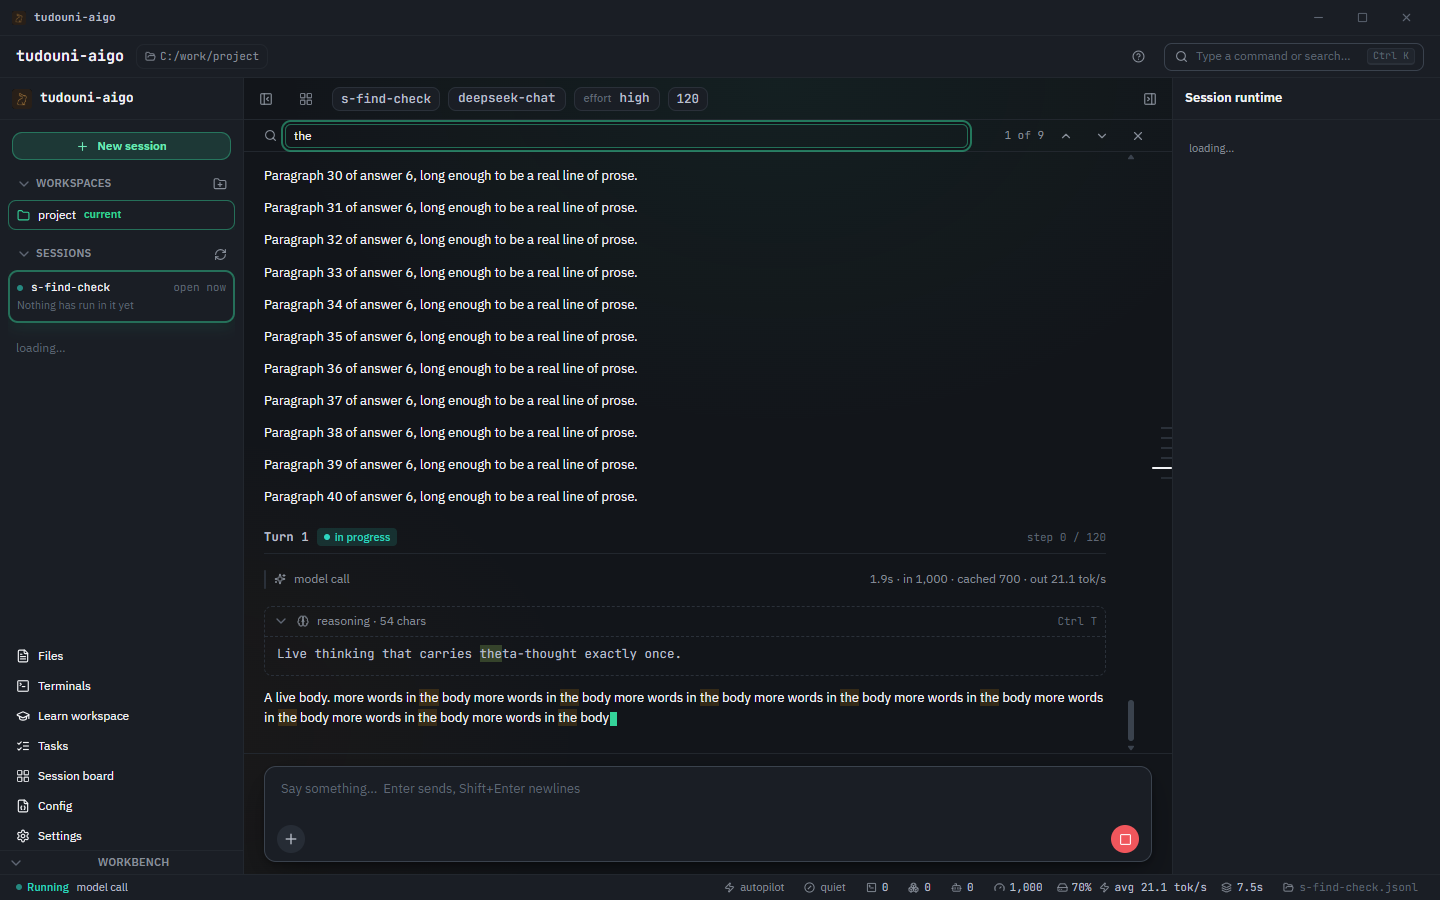
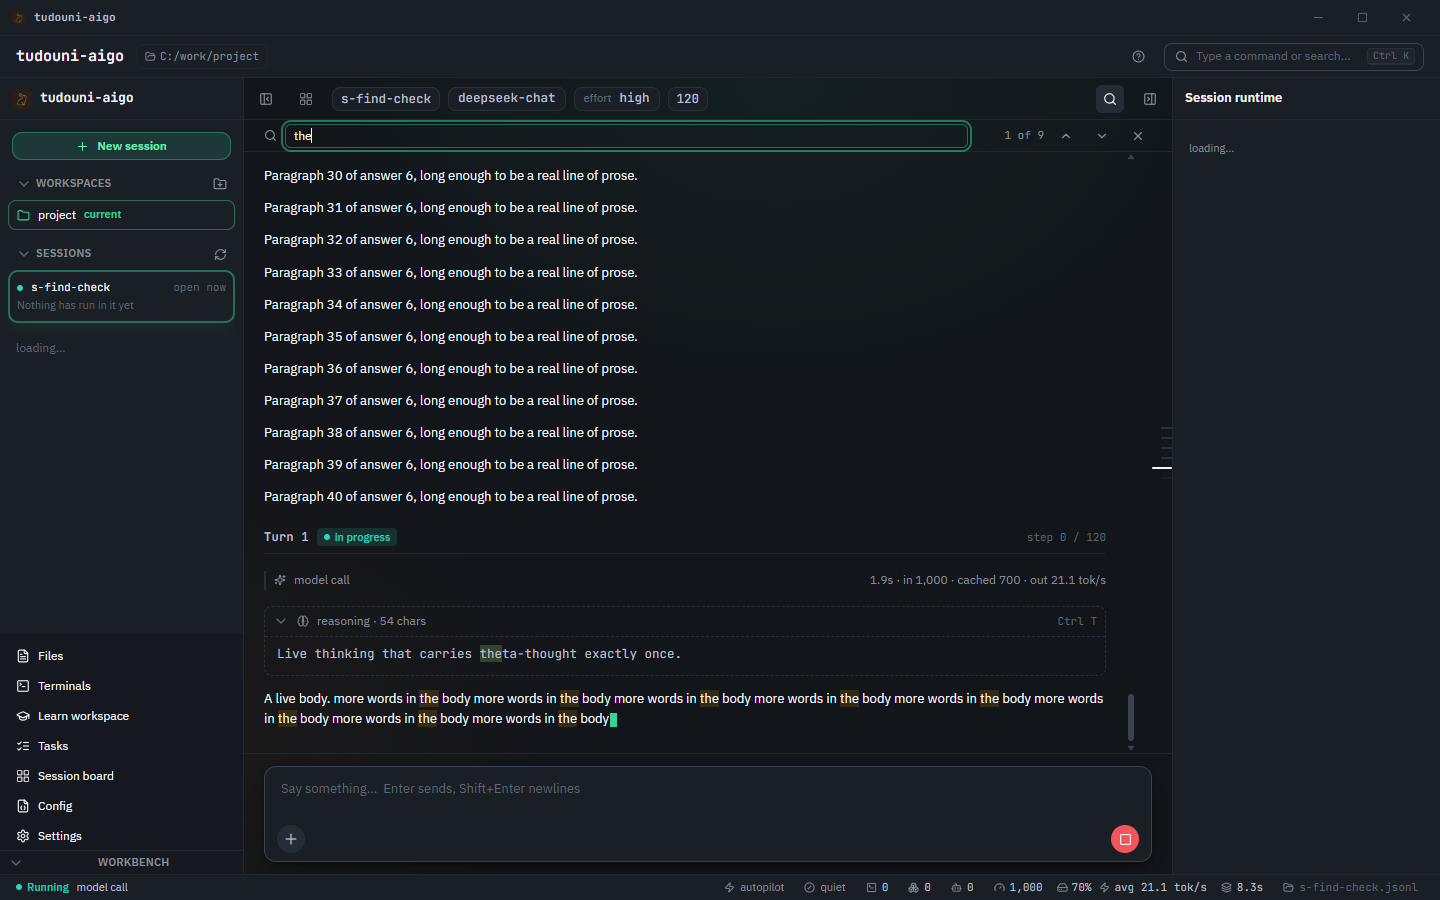
Reach find from a search button beside the right rail's toggle
The icon sits immediately left of the right rail's collapse control, in the
session bar and **outside** `.sb-scroll`: the rule that moved both rail toggles
here in the first place — a control that lives inside the thing it acts on goes
away with it, and the right rail is exactly what a reader folds while scanning a
long answer. Same square, colour, hover and disabled states as its neighbours
(one modifier for the margin, so the run stays evenly spaced), its shortcut
advertised with `aria-keyshortcuts`, and the label the find bar's own box
carries.

**Drawn only while the transcript is the column's occupant.** That is a
different question from "is a session open": the board, a shell and the first
screen all have a session and none of them has conversation text on screen.
`showsTranscript` is the new predicate in `conversationView.ts` (asserted over
every occupant in `conversation-view.test.ts`), and `App` hands its answer down.

`Ctrl+F` now asks the same question, measured from the DOM
(`.stream-scroll`, the way the terminal guard measures focus) because by the time
a key arrives the tree that decides it is committed. Before this, pressing it on
the board set `findOpen` and drew nothing — then produced a bar out of nowhere
once the board closed, which is the "a key that appears to do nothing" failure
this file keeps being about.

`scripts/find-check.mjs` grew a real-mouse press of the button (a synthetic
[…]

diff --git a/desktop/tudouni-aigo-desktop/src/components/chrome/SessionBar.tsx b/desktop/tudouni-aigo-desktop/src/components/chrome/SessionBar.tsx
@@ -1,4 +1,4 @@
-import { LayoutGrid, PanelLeft, PanelLeftClose, PanelRight, PanelRightClose } from 'lucide-react';
+import { LayoutGrid, PanelLeft, PanelLeftClose, PanelRight, PanelRightClose, Search } from 'lucide-react';
 import { railBlocked, selectBoardAvailable, useApp, useSessionField } from '@/state/store';
 import { useT } from '@/i18n/useT';
 import { Fact, Tip } from '@/components/ui/kit';
@@ -47,7 +47,7 @@ import { Fact, Tip } from '@/components/ui/kit';
  * foot's row. One control with two entrances rather than two controls that can
  * disagree.
  */
-export function SessionBar() {
+export function SessionBar({ canFind }: { canFind: boolean }) {
   const t = useT();
   // Everything on this row is a statement about **one** conversation, so it all
   // comes from the session being shown.
@@ -59,6 +59,7 @@ export function SessionBar() {
   const sidebarVisible = useApp((s) => s.sidebarVisible);
   const toggleSidebar = useApp((s) => s.toggleSidebar);
   const setBoardOpen = useApp((s) => s.setBoardOpen);
+  const openFind = useApp((s) => s.openFind);
   // The board's gate is the **workspace's**, not the conversation on screen's:
   // it reports on every session at once, so it must open in the one case Files
   // and Terminal cannot — the session on screen is the one whose child failed
@@ -152,6 +153,38 @@ export function SessionBar() {
     </Tip>
   );
 
+  /**
+   * The transcript's find, as a visible control beside the right rail's toggle —
+   * the same act as `Ctrl+F`, for a hand that is already on the mouse.
+   *
+   * **Beside the toggle rather than inside the rail**, for the reason this whole
+   * row exists: a control inside the thing it acts on goes away with it, and the
+   * right rail is exactly the surface a reader folds while scanning a long answer.
+   * Its shortcut is advertised (`aria-keyshortcuts`) and its label is the same
+   * sentence the bar's own search box carries, so the two cannot drift.
+   *
+   * It is drawn **only while the transcript is the column's occupant**
+   * (`showsTranscript`), which is a different question from "is a session open":
+   * on the board or in a shell there is no conversation text on screen, so the
+   * button would be one whose press produced nothing. That is the failure this
+   * bar's neighbours were rebuilt to avoid, and it is why the gate is a prop from
+   * `App` rather than a fact guessed here.
+   */
+  const findButton = canFind ? (
+    <Tip label={t('find.label')}>
+      <button
+        type="button"
+        className="rail-toggle sb-find"
+        aria-label={t('find.label')}
+        aria-keyshortcuts="Control+F"
+        disabled={blocked}
+        onClick={openFind}
+      >
+        <Search size={14} />
+      </button>
+    </Tip>
+  ) : null;
+
   if (!session) {
     // The toggles are rendered in this state too. Before the handshake lands
     // there are no facts to show, and leaving them out of the placeholder would
@@ -165,6 +198,7 @@ export function SessionBar() {
           <span className="sb-label">{t('session.label')}</span>
           <span className="muted">—</span>
         </div>
+        {findButton}
         {rightToggle}
       </div>
     );
@@ -236,6 +270,7 @@ export function SessionBar() {
         </div>
       </div>
 
+      {findButton}
       {rightToggle}
     </div>
   );

diff --git a/desktop/tudouni-aigo-desktop/tests/conversation-view.test.ts b/desktop/tudouni-aigo-desktop/tests/conversation-view.test.ts
@@ -36,6 +36,7 @@ import { test } from 'node:test';
 import {
   conversationView,
   showsComposer,
+  showsTranscript,
   type ConversationViewInput,
 } from '@/conversationView';
 
@@ -119,6 +120,43 @@ test('the composer is drawn for every view except the terminal and the board', (
   }
   assert.equal(showsComposer('board'), false, 'the board has no addressee, so no composer');
   assert.equal(showsComposer('terminal'), false, 'the shell owns the keyboard');
+});
+
+test('find is offered only while the transcript is the column', () => {
+  // The find bar is drawn **by** the transcript, so this is the whole condition
+  // for "there is something to search": not "is a session open" — four of the
+  // seven occupants have one. `App` hands the same answer to the session bar,
+  // which is why a wrong rule here would put a search button on screen whose
+  // press produced nothing.
+  //
+  // Driven from **inputs** rather than a list of view names, like the composer
+  // contract above: an eighth occupant added later cannot be forgotten here.
+  const inputs: ConversationViewInput[] = [
+    healthy({ startupProblem: true }),
+    healthy({ sessionProblem: true }),
+    healthy({ attachedTerminalId: 'term-1' }),
+    healthy({ boardOpen: true }),
+    healthy({ hasConversation: false }),
+    healthy({ ready: false }),
+    healthy(),
+  ];
+  const views = inputs.map(conversationView);
+  // Seven inputs, seven occupants: if two of them ever collapse onto one view,
+  // the priority order has lost a branch, and the loop below would silently stop
+  // covering one of them.
+  assert.equal(new Set(views).size, inputs.length, `views: ${views.join(', ')}`);
+  for (const view of views) {
+    assert.equal(
+      showsTranscript(view),
+      view === 'stream',
+      `${view}: find must be ${view === 'stream' ? 'available' : 'unavailable'}`,
+    );
+  }
+  // Spelled out for the two that are easiest to conflate: both show a session,
+  // neither shows its text.
+  assert.equal(showsTranscript('board'), false);
+  assert.equal(showsTranscript('welcome'), false);
+  assert.equal(showsTranscript('stream'), true);
 });
 
 /* ============================================================

diff --git a/desktop/tudouni-aigo-desktop/src/hooks/useGlobalKeys.ts b/desktop/tudouni-aigo-desktop/src/hooks/useGlobalKeys.ts
@@ -37,6 +37,31 @@ function keyboardIsAtAShell(): boolean {
   );
 }
 
+/** The class the transcript's scroll region carries. Named here for the same
+ *  reason `TERMINAL_PANE_CLASS` is: the guard below and the region itself must
+ *  not be able to disagree about what "the transcript" is. */
+export const TRANSCRIPT_CLASS = 'stream-scroll';
+
+/**
+ * Is there a transcript on screen to search?
+ *
+ * The find bar is drawn **by the transcript** — `StreamView` renders it, and its
+ * scan walks the rows that component owns — so this is the condition, measured
+ * directly rather than inferred from "a session is open". The column also shows
+ * the session board, a shell and the first screen, all states with a session and
+ * none of them with conversation text on screen; `Ctrl+F` there would set a flag
+ * that draws nothing now and produces a bar out of nowhere later, which is the
+ * "a key that appears to do nothing" failure this file keeps being about.
+ *
+ * A DOM read inside an event handler, for the same reason `keyboardIsAtAShell`
+ * is one: by the time a key arrives the tree that decides it is already
+ * committed.
+ */
+function transcriptIsOnScreen(): boolean {
+  if (typeof document === 'undefined') return false;
+  return document.querySelector(`.${TRANSCRIPT_CLASS}`) !== null;
+}
+
 /**
  * Global keys (the capability list).
  *
@@ -234,7 +259,13 @@ export function useGlobalKeys(): void {
             // Reached only when no blocking modal is up: the visibility check
             // above is what keeps a fail-closed approval unanswerable-by-accident,
             // and searching a transcript is not an answer to it.
+            //
+            // The transcript has to be the thing on screen — the session bar's
+            // own search button asks the same question (`showsTranscript`) and is
+            // not drawn when this is false, so the key and the button agree about
+            // when there is something to search.
             e.preventDefault();
+            if (!transcriptIsOnScreen()) return;
             s.openFind();
             return;
           }

diff --git a/desktop/tudouni-aigo-desktop/src/App.tsx b/desktop/tudouni-aigo-desktop/src/App.tsx
@@ -3,7 +3,7 @@ import * as TooltipPrimitive from '@radix-ui/react-tooltip';
 
 import { activeRuntime, NO_ENTRIES, NO_NOTES, useApp } from '@/state/store';
 import { draggedRailWidth, type RailSide } from '@/railWidth';
-import { conversationView, showsComposer } from '@/conversationView';
+import { conversationView, showsComposer, showsTranscript } from '@/conversationView';
 import { useRuntimeBridge } from '@/runtime/useRuntime';
 import { useGlobalKeys } from '@/hooks/useGlobalKeys';
 import { useKeepAwake } from '@/hooks/useKeepAwake';
@@ -216,7 +216,7 @@ export function App() {
               follows `.app-conversation`, so the two sidebars reach the top of
               this row; the facts they would have shown are theirs to draw. */}
           <div className="app-conversation">
-            <SessionBar />
+            <SessionBar canFind={showsTranscript(view)} />
             {/* The summary row stands in for the right rail once it is folded,
                 so it is drawn **under the session bar and inside the
                 conversation column** — the same width as the row above it,

diff --git a/desktop/tudouni-aigo-desktop/src/styles/app.css b/desktop/tudouni-aigo-desktop/src/styles/app.css
@@ -426,6 +426,23 @@
   margin-left: var(--space-1);
 }
 
+/* The transcript's find, immediately left of the trailing toggle.
+ *
+ * It borrows `.rail-toggle`'s square, colour, hover and disabled states — the
+ * four things that make a control on this bar read as a control — and overrides
+ * only the two margins: the inner gap moves to its **left** so that the run
+ * stays evenly spaced (`facts · 4px · find · 4px · toggle · edge`), where the
+ * leading toggle's gap is on its right for the same reason.
+ *
+ * Specificity is raised past `.rail-toggle` deliberately rather than relying on
+ * this block coming later in the file: the margin override is the whole point of
+ * the modifier, and a reorder that silently put the base rule last would bring
+ * the doubled gap back. */
+.sessionbar .rail-toggle.sb-find {
+  margin-right: 0;
+  margin-left: var(--space-1);
+}
+
 .sessionbar .rail-toggle:hover:not(:disabled) {
   background: var(--bg-muted);
   color: var(--fg);

diff --git a/desktop/tudouni-aigo-desktop/src/conversationView.ts b/desktop/tudouni-aigo-desktop/src/conversationView.ts
@@ -133,3 +133,19 @@ export function conversationView(input: ConversationViewInput): ConversationView
 export function showsComposer(view: ConversationView): boolean {
   return view !== 'terminal' && view !== 'board';
 }
+
+/**
+ * Whether the transcript is the column's occupant.
+ *
+ * The find bar lives inside the transcript (`StreamView` draws it and runs the
+ * scan), so "can anything be searched right now" is exactly this question — not
+ * "is a session open". On the board or in a shell there is no conversation text
+ * on screen, and a search control there would be a button whose press produces
+ * nothing; the same three states are why the bar is not drawn.
+ *
+ * It is the composer's rule read from the other end: the composer is withheld
+ * from four occupants, the find bar is offered in only one.
+ */
+export function showsTranscript(view: ConversationView): boolean {
+  return view === 'stream';
+}
